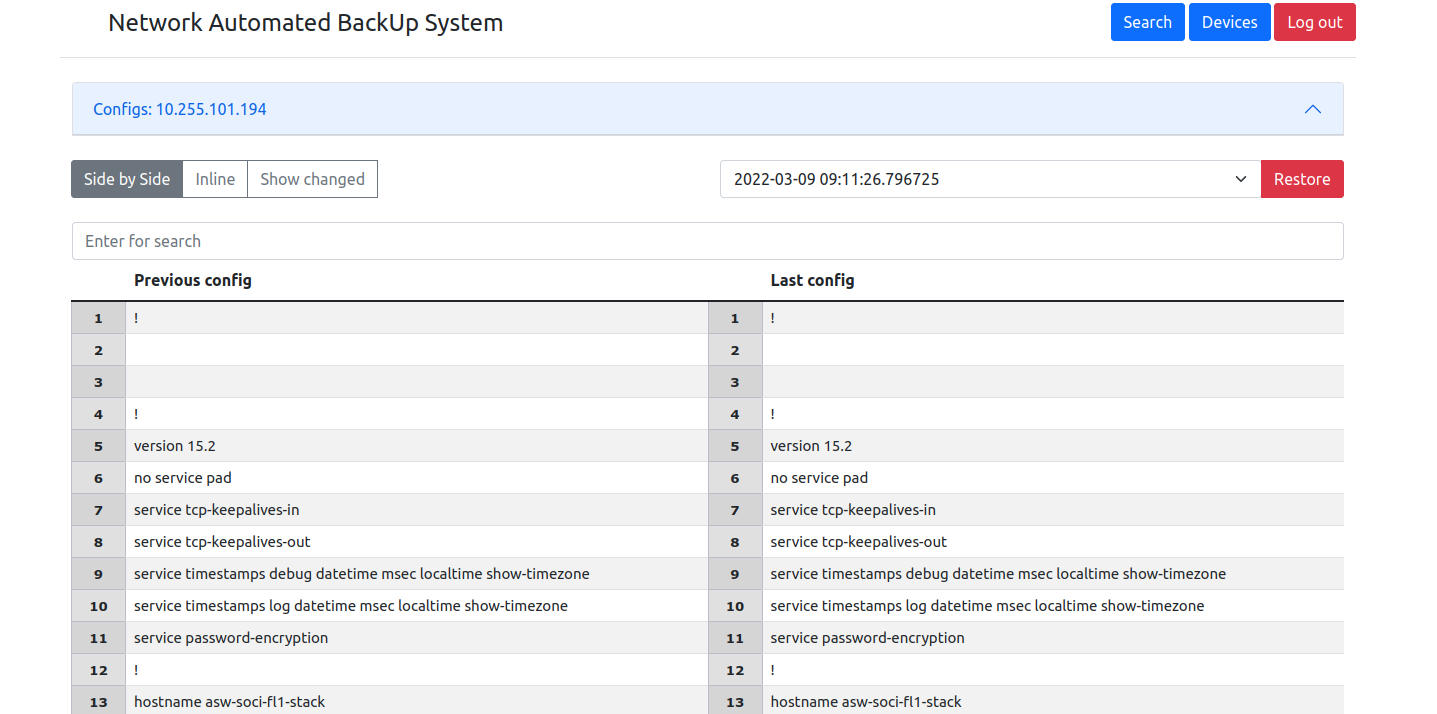
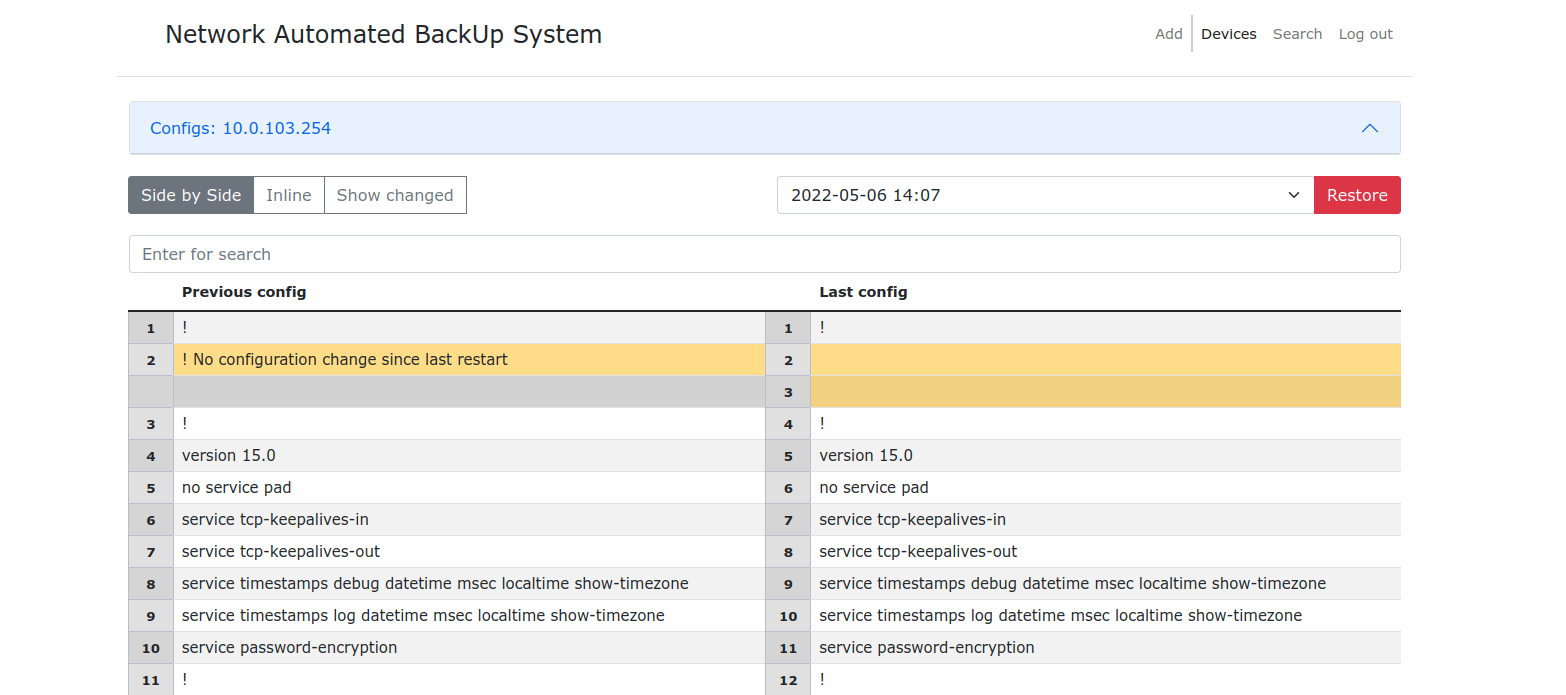
Add option check device config update Fix README.md Small bug fix

diff --git a/app/templates/devices.html b/app/templates/devices.html
@@ -54,7 +54,7 @@
             {% else -%}
             <td class="align-middle text-center">{{ devices_env[device].connection_status }}</td>
             {% endif -%}
-            <td class="align-middle text-center">{{ devices_env[device].timestamp }}</td>
+            <td class="align-middle text-center" id="td_last_update_{{ device }}">{{ devices_env[device].timestamp }}</td>
             <td class="align-middle text-center">{{ devices_env[device].last_config_timestamp }}</td>
             <td class="align-middle text-center">
                 {% if devices_env[device].last_config_timestamp != "No backup yet": -%}
@@ -85,6 +85,12 @@
                     </svg>
                 </a>
                 {% endif -%}
+                <button class="btn btn-secondary btn-floating btn-sm text-center" role="button" onclick="check_device('{{ device }}', '{{ devices_env[device].connection_driver }}');" title="Check device">
+                    <svg xmlns="http://www.w3.org/2000/svg" width="16" height="16" fill="currentColor" class="bi bi-arrow-clockwise" viewBox="0 0 16 16">
+                        <path fill-rule="evenodd" d="M8 3a5 5 0 1 0 4.546 2.914.5.5 0 0 1 .908-.417A6 6 0 1 1 8 2v1z"/>
+                        <path d="M8 4.466V.534a.25.25 0 0 1 .41-.192l2.36 1.966c.12.1.12.284 0 .384L8.41 4.658A.25.25 0 0 1 8 4.466z"/>
+                    </svg>
+                </button>
                 <a href="#" class="btn btn-secondary btn-floating btn-sm text-center align-middle" data-bs-toggle="modal" data-bs-target="#ModalDevice{{ devices_env[device].html_element_id }}">
                     <svg xmlns="http://www.w3.org/2000/svg" width="16" height="16" fill="currentColor" class="bi bi-gear-wide-connected" viewBox="0 0 16 16">
                         <path d="M7.068.727c.243-.97 1.62-.97 1.864 0l.071.286a.96.96 0 0 0 1.622.434l.205-.211c.695-.719 1.888-.03 1.613.931l-.08.284a.96.96 0 0 0 1.187 1.187l.283-.081c.96-.275 1.65.918.931 1.613l-.211.205a.96.96 0 0 0 .434 1.622l.286.071c.97.243.97 1.62 0 1.864l-.286.071a.96.96 0 0 0-.434 1.622l.211.205c.719.695.03 1.888-.931 1.613l-.284-.08a.96.96 0 0 0-1.187 1.187l.081.283c.275.96-.918 1.65-1.613.931l-.205-.211a.96.96 0 0 0-1.622.434l-.071.286c-.243.97-1.62.97-1.864 0l-.071-.286a.96.96 0 0 0-1.622-.434l-.205.211c-.695.719-1.888.03-1.613-.931l.08-.284a.96.96 0 0 0-1.186-1.187l-.284.081c-.96.275-1.65-.918-.931-1.613l.211-.205a.96.96 0 0 0-.434-1.622l-.286-.071c-.97-.243-.97-1.62 0-1.864l.286-.071a.96.96 0 0 0 .434-1.622l-.211-.205c-.719-.695-.03-1.888.931-1.613l.284.08a.96.96 0 0 0 1.187-1.186l-.081-.284c-.275-.96.918-1.65 1.613-.931l.205.211a.96.96 0 0 0 1.622-.434l.071-.286zM12.973 8.5H8.25l-2.834 3.779A4.998 4.998 0 0 0 12.973 8.5zm0-1a4.998 4.998 0 0 0-7.557-3.779l2.834 3.78h4.723zM5.048 3.967c-.03.021-.058.043-.087.065l.087-.065zm-.431.355A4.984 4.984 0 0 0 3.002 8c0 1.455.622 2.765 1.615 3.678L7.375 8 4.617 4.322zm.344 7.646.087.065-.087-.065z"/>
@@ -166,34 +172,22 @@ $(document).ready(function () {
 <script>
 // Put ajax data in backand
 <!--var $j = jQuery.noConflict();-->
-function getstatus() {
+function check_device(device, driver) {
+    var server_data = {
+        "device": device,
+        "driver": driver,
+    };
+    console.log(server_data);
     $.ajax({
         type: "POST",
-        url: "/devices_status/",
+        url: "/device_status/",
         data: JSON.stringify(server_data),
         contentType: "application/json",
         dataType: 'json',
         success: function(result) {
             console.log(result);
-            if (result["status"] != "none") {
-<!--                console.log(result["status"]);-->
-                //show toasts param
-<!--                var toastLiveExample = document.getElementById('liveToast')-->
-<!--                var toast = new bootstrap.Toast(toastLiveExample)-->
-<!--                toast.show();-->
-                //
-                // show toasts
-                var changed = result["status"];
-                changed = trim(changed)
-                document.getElementById("number-of-changes").innerHTML =  result["status"];
-                document.getElementById("changed_config").value =  changed;
-                document.getElementById("toasts_strong").innerHTML = "Changes";
-                document.getElementById("baseText").value = result["previous_config_file"];
-                document.getElementById("small_toast").innerHTML  = document.getElementsByName("date")[0].value;
-                diffUsingJS();
-            }
-            if (result["status"] == "none") {
-                console.log(result["status"]);
+            if (result["status"] == "no changed") {
+                console.log(result["mobility_result_status"]);
                 //show toasts param
                 var toastLiveExample = document.getElementById('liveToast')
                 var toast = new bootstrap.Toast(toastLiveExample)
@@ -201,7 +195,8 @@ function getstatus() {
                 //
                 // show toasts
                 document.getElementById("number-of-changes").innerHTML = result["status"];
-                document.getElementById("toasts_strong").innerHTML = "Config";
+                document.getElementById("toasts_strong").innerHTML = result["hostname"] + " (" + result['ipaddress'] + ")";
+                document.getElementById("td_last_update_" + result['ipaddress']).innerHTML = result['last_update'];
             }
         }
     });

diff --git a/app/templates/base.html b/app/templates/base.html
@@ -24,6 +24,11 @@
       right: 20px;
       display: none;
     }
+    .line {
+      border-left: 2px solid #ccc; /* Параметры линии */
+<!--                    margin-left: 3px; /* Отступ слева */-->
+      padding-left: 5px; /* Расстояние от линии до текста */
+   }
     </style>
 
     <title>{% block title %}{% endblock%}</title>
@@ -44,14 +49,6 @@
                   <svg class="bi me-2" width="40" height="32"><use xlink:href="#bootstrap"/></svg>
                   <span class="fs-4">Network Automated BackUp System</span>
               </a>
-<!--              <div class="col text-end">-->
-<!--                  {% if  navigation is true: -%}-->
-<!--                  <button class="btn btn-sm btn-primary btn-block" onclick="document.location='/'" name="devices_btn" value="devices_btn" id="by_phone_btn">Devices</button>-->
-<!--                  <button class="btn btn-sm btn-primary btn-block" onclick="document.location='/search'" name="home_btn" value="home_btn" id="home_btn">Search</button>-->
-<!--                  <button class="btn btn-sm btn-danger btn-block" onclick="document.location='/login'" name="logout-btn" value="logout-btn" id="logout-btn">Log out</button>-->
-<!--                  {% else -%}-->
-<!--                  {% endif -%}-->
-<!--              </div>-->
               <nav class="navbar navbar-expand-lg navbar-light">
                   <!-- Container wrapper -->
                   <div class="container-fluid">
@@ -60,10 +57,10 @@
                       <ul class="navbar-nav ms-auto mb-2 mb-lg-0">
                           {% if  navigation is true: -%}
                           <li class="nav-item">
-                              <a class="nav-link active" aria-current="page" href="/">Devices</a>
+                              <a class="nav-link" href="#" data-bs-toggle="modal" data-bs-target="#ModalAddDevice">Add</a>
                           </li>
                           <li class="nav-item">
-                              <a class="nav-link" href="#" data-bs-toggle="modal" data-bs-target="#ModalAddDevice">Add</a>
+                              <a class="nav-link active line" aria-current="page" href="/">Devices</a>
                           </li>
                           <li class="nav-item">
                               <a class="nav-link" href="/search">Search</a>
@@ -150,7 +147,7 @@
         <div id="liveToast" class="toast" role="alert" aria-live="assertive" aria-atomic="true">
             <div class="toast-header">
                 <strong class="me-auto" id="toasts_strong"></strong>
-                <small id="small_toast">Settings message</small>
+                <small id="small_toast">Status message</small>
                 <button type="button" class="btn-close" data-bs-dismiss="toast" aria-label="Close"></button>
             </div>
             <div class="toast-body">

diff --git a/app/backuper.py b/app/backuper.py
@@ -2,11 +2,12 @@ import re
 from datetime import datetime, timedelta
 
 from napalm import get_network_driver
-from nornir_napalm.plugins.tasks import napalm_get
+
+# from nornir_napalm.plugins.tasks import napalm_get
 from nornir_utils.plugins.functions import print_result
 
 from modules.helpers import Helpers
-from config import username, password, fix_clock_period
+from config import username, password, conn_timeout, fix_clock_period
 from modules.differ import diff_changed
 
 from app.utils import (
@@ -24,11 +25,6 @@ from napalm.base.exceptions import (
     ConnectTimeoutError,
     ConnectionClosedException,
 )
-
-# Generating timestamp for BD
-now = datetime.now()
-# Formatting date time
-timestamp = now.strftime("%Y-%m-%d %H:%M")
 
 
 # Checking ipaddresses
@@ -59,8 +55,9 @@ def clear_blank_line_on_device_config(config: str) -> str:
     return re.sub(pattern, "", str(config))
 
 
-def napalm_connect(napalm_driver, ipaddress, napalm_sn=None):
-    pass
+#
+# def napalm_connect(napalm_driver, ipaddress, napalm_sn=None):
+#     pass
 
 
 def backup_config_on_db(napalm_driver: str, ipaddress: str) -> dict:
@@ -68,6 +65,11 @@ def backup_config_on_db(napalm_driver: str, ipaddress: str) -> dict:
     This function starts to process backup config on the network devices
     Need for work nornir task
     """
+    # Generating timestamp for BD
+    now = datetime.now()
+    # Formatting date time
+    timestamp = now.strftime("%Y-%m-%d %H:%M")
+    #
     result_dict = {
         "ipaddress": None,
         "hostname": None,
@@ -79,9 +81,8 @@ def backup_config_on_db(napalm_driver: str, ipaddress: str) -> dict:
         "timestamp": None,
         "connection_status": None,
         "connection_driver": None,
-        "last_changed": None
+        "last_changed": None,
     }
-    napalm_device = None
     if check_ip(ipaddress):
         try:
             connect_driver = get_network_driver(napalm_driver)
@@ -89,7 +90,7 @@ def backup_config_on_db(napalm_driver: str, ipaddress: str) -> dict:
                 hostname=ipaddress,
                 username=username,
                 password=password,
-                optional_args={"port": 22},
+                optional_args={"port": 22, "conn_timeout": conn_timeout},
             )
             napalm_device.open()
             device_result = napalm_device.get_facts()
@@ -134,7 +135,6 @@ def backup_config_on_db(napalm_driver: str, ipaddress: str) -> dict:
                         "connection_status": "Ok",
                         "connection_driver": str(platform),
                     }
-
                 )
             elif check_device_exist is False:
                 write_device_env_on_db(
@@ -183,11 +183,7 @@ def backup_config_on_db(napalm_driver: str, ipaddress: str) -> dict:
             # save the configuration to the database
             if result is False:
                 write_cfg_on_db(ipaddress=str(ipaddress), config=str(device_config))
-                result_dict.update(
-                    {
-                        "last_changed": str(timestamp)
-                    }
-                )
+                result_dict.update({"last_changed": str(timestamp)})
         except (
             NapalmException,
             ConnectionException,
@@ -228,4 +224,4 @@ def run_backup(ipaddress: str = None) -> None:
 
 
 if __name__ == "__main__":
-    print(backup_config_on_db(ipaddress="10.255.100.1", napalm_driver="ce"))
+    print(backup_config_on_db(ipaddress="10.0.103.254", napalm_driver="ios"))

diff --git a/run_backup_sql.py b/run_backup_sql.py
@@ -5,12 +5,20 @@ from nornir_napalm.plugins.tasks import napalm_get
 from nornir_utils.plugins.functions import print_result
 
 # from nornir_netmiko.tasks import netmiko_send_command, netmiko_send_config
-from napalm.base.exceptions import (
-    NapalmException,
+# from napalm.base.exceptions import (
+#     NapalmException,
+#     ConnectionException,
+#     ConnectAuthError,
+#     ConnectTimeoutError,
+#     ConnectionClosedException,
+# )
+
+from nornir.core.exceptions import (
     ConnectionException,
-    ConnectAuthError,
-    ConnectTimeoutError,
-    ConnectionClosedException,
+    ConnectionAlreadyOpen,
+    ConnectionNotOpen,
+    NornirExecutionError,
+    NornirSubTaskError,
 )
 
 from modules.helpers import Helpers
@@ -117,11 +125,11 @@ def backup_config_on_db(task: Helpers.nornir_driver) -> None:
                     connection_driver=str(platform),
                 )
         except (
-            NapalmException,
             ConnectionException,
-            ConnectAuthError,
-            ConnectTimeoutError,
-            ConnectionClosedException,
+            ConnectionAlreadyOpen,
+            ConnectionNotOpen,
+            NornirExecutionError,
+            NornirSubTaskError,
         ) as connection_error:
             ipaddress = task.host.hostname
             check_device_exist = get_exist_device_on_db(ipaddress=ipaddress)

diff --git a/app/views.py b/app/views.py
@@ -25,6 +25,7 @@ from app.utils import (
     update_device_on_db,
     check_ip,
 )
+from app.backuper import backup_config_on_db
 
 search_configs_path = search_configs_path()
 
@@ -251,7 +252,28 @@ def config_page(ipaddress):
 @check_auth
 def device_status():
     if request.method == "POST":
-        pass
+        previous_config_data = request.get_json()
+        ipaddress = previous_config_data["device"]
+        driver = previous_config_data["driver"]
+        result = backup_config_on_db(ipaddress=ipaddress, napalm_driver=driver)
+        print(previous_config_data)
+        print(result)
+        if result["last_changed"] is not None:
+            return jsonify(
+                {
+                    "status": "ok",
+                    "result": result,
+                }
+            )
+        else:
+            return jsonify(
+                {
+                    "status": "no changed",
+                    "hostname": result["hostname"],
+                    "ipaddress": result["ipaddress"],
+                    "last_update": result["timestamp"],
+                }
+            )
 
 
 # Ajax function get devices status

diff --git a/config_example.py b/config_example.py
@@ -1,6 +1,8 @@
 ### SSH Username & password ###
 USERNAME = ""
 PASS = ""
+### SSH connection timeout
+conn_timeout = "10"
 ### Token from flask SECRET_KEY ###
 TOKEN = ""
 ###

diff --git a/README.md b/README.md
@@ -6,9 +6,8 @@
 
 # Network Automated BackUp System with Nornir
 
-It is a tool for changing or backing up configuration on network devices.<br/>
-It receives network data devices from Netbox using Nornir with
-nornir_netbox plugin.
+This is a network device configuration backup tool.<br/>
+You can import network device data from Netbox using Nornir with the nornir_netbox plugin.
 
 **IMPORTANT: READ INSTRUCTIONS CAREFULLY BEFORE RUNNING THIS PROGRAM**
 
@@ -18,10 +17,6 @@ nornir_netbox plugin.
 * python >= 3.8
 * nornir
 * napalm
-* napalm-ce
-* napalm-eltex
-* nornir-napalm
-* nornir-utils
 * paramiko
 * netmiko
 * Flask
@@ -37,7 +32,7 @@ pip3 install napalm-"drivername"
 ```
 
 ### Screenshots
-![Screenshot of Search page](screenshots/search_page.png "Search page")
+![Screenshot of Search page](screenshots/devices_page.png "Devices page")
 ![Screenshot of Diff page](screenshots/diff_page.png "Diff page")
 ![Screenshot of Diff page context compare](screenshots/diff_page_context_compare.png "Diff page context compare")
 
@@ -59,12 +54,6 @@ python3 -m venv venv
 pip3 install -r requirements.txt || pip install -r requirements.txt
 ```
 
-## Setup
-Copy the [config_example.py](config_example.py) sample settings file to `config.py`.<br/>
-Copy the [config_example.yaml](config_example.yaml) sample settings file to `config.yaml`.<br/>
-If you are not using NetBox, then edit the [config_example.yaml](config_example.yaml) according to the [documentation](https://nornir.readthedocs.io/en/latest/tutorial/initializing_nornir.html). </br>
-All options are described in the example file.
-
 # init DB
 ```
 sudo -u postgres psql
@@ -79,6 +68,11 @@ flask db init
 flask db migrate
 flask db upgrade
 ```
+## Setup configuration
+Copy the [config_example.py](config_example.py) sample settings file to `config.py`.<br/>
+Copy the [config_example.yaml](config_example.yaml) sample settings file to `config.yaml`.<br/>
+If you are not using NetBox, then edit the [config_example.yaml](config_example.yaml) according to the [documentation](https://nornir.readthedocs.io/en/latest/tutorial/initializing_nornir.html) or add devices manually use "Add" on devices page. </br>
+All options are described in the example file.
 # Running the web server
 ```
 . venv/bin/activate
@@ -104,7 +98,7 @@ sudo systemctl restart nginx
 ```
 # Running the backup script
 ```
-0 */4 * * * /opt/NABS/venv/bin/python /opt/NABS/run_backup.py >/dev/null 2>&1
+0 */4 * * * /opt/NABS/venv/bin/python /opt/NABS/run_backup_sql.py >/dev/null 2>&1
 ```
 
 ## Thanks
